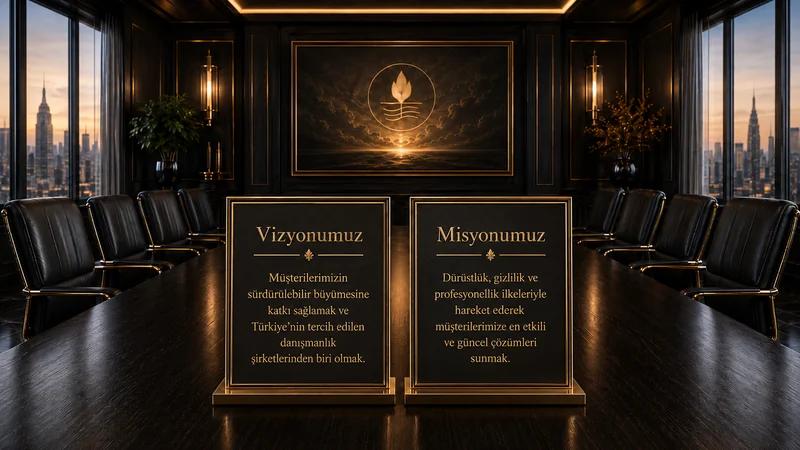
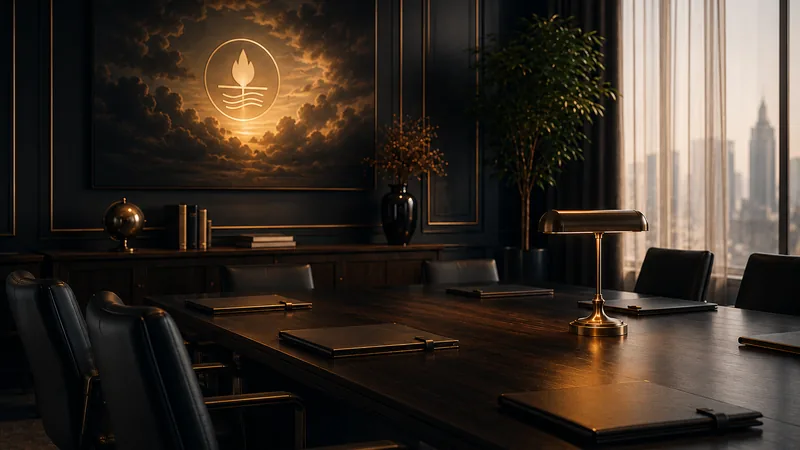
Hakkimizda: metinsiz gorsel + vizyon-misyon HTML kartlari

diff --git a/public_html/assets/css/main.css b/public_html/assets/css/main.css
@@ -1256,6 +1256,50 @@ section {
   text-align: right;
 }
 
+.about-values {
+  display: grid;
+  grid-template-columns: 1fr;
+  gap: clamp(16px, 2vw, 24px);
+  margin-top: clamp(24px, 2.5vw, 36px);
+  width: 100%;
+  max-width: min(100%, 78rem);
+}
+
+.vision-mission-card {
+  background: #10182C;
+  border: 1px solid #B89450;
+  color: #F8F4F0;
+  padding: clamp(1.25rem, 2vw, 1.75rem);
+  border-radius: 0;
+}
+
+.vision-mission-card h3 {
+  font-family: var(--font-heading);
+  font-size: clamp(1.25rem, 1.4vw + 0.85rem, 1.5rem);
+  font-weight: 600;
+  line-height: 1.3;
+  color: #B89450;
+  margin: 0 0 clamp(0.75rem, 1vw, 1rem);
+}
+
+.vision-mission-card p {
+  font-family: var(--font-body);
+  font-size: 1.0625rem;
+  line-height: 1.7;
+  color: #F8F4F0;
+  margin: 0;
+}
+
+@media (min-width: 1024px) {
+  .about-values {
+    grid-template-columns: 1fr 1fr;
+  }
+}
+
+[dir="rtl"] .vision-mission-card {
+  text-align: right;
+}
+
 /* --------------------------------------------------------------------------
    Process (Nasıl Çalışıyoruz)
    -------------------------------------------------------------------------- */

diff --git a/public_html/index.php b/public_html/index.php
@@ -271,6 +271,31 @@ function service_image_slug(string $icon): string
                     >
                 </picture>
             </figure>
+
+            <?php
+            $visionBlock = (isset($content['vision']) && is_array($content['vision'])
+                && !empty($content['vision']['title']) && !empty($content['vision']['text']))
+                ? $content['vision'] : null;
+            $missionBlock = (isset($content['mission']) && is_array($content['mission'])
+                && !empty($content['mission']['title']) && !empty($content['mission']['text']))
+                ? $content['mission'] : null;
+            ?>
+            <?php if ($visionBlock || $missionBlock): ?>
+            <div class="about-values">
+                <?php if ($visionBlock): ?>
+                <article class="vision-mission-card reveal" style="--reveal-delay: 0ms">
+                    <h3><?= e($visionBlock['title']) ?></h3>
+                    <p><?= e($visionBlock['text']) ?></p>
+                </article>
+                <?php endif; ?>
+                <?php if ($missionBlock): ?>
+                <article class="vision-mission-card reveal" style="--reveal-delay: 70ms">
+                    <h3><?= e($missionBlock['title']) ?></h3>
+                    <p><?= e($missionBlock['text']) ?></p>
+                </article>
+                <?php endif; ?>
+            </div>
+            <?php endif; ?>
         </div>
     </section>
     <?php endif; ?>